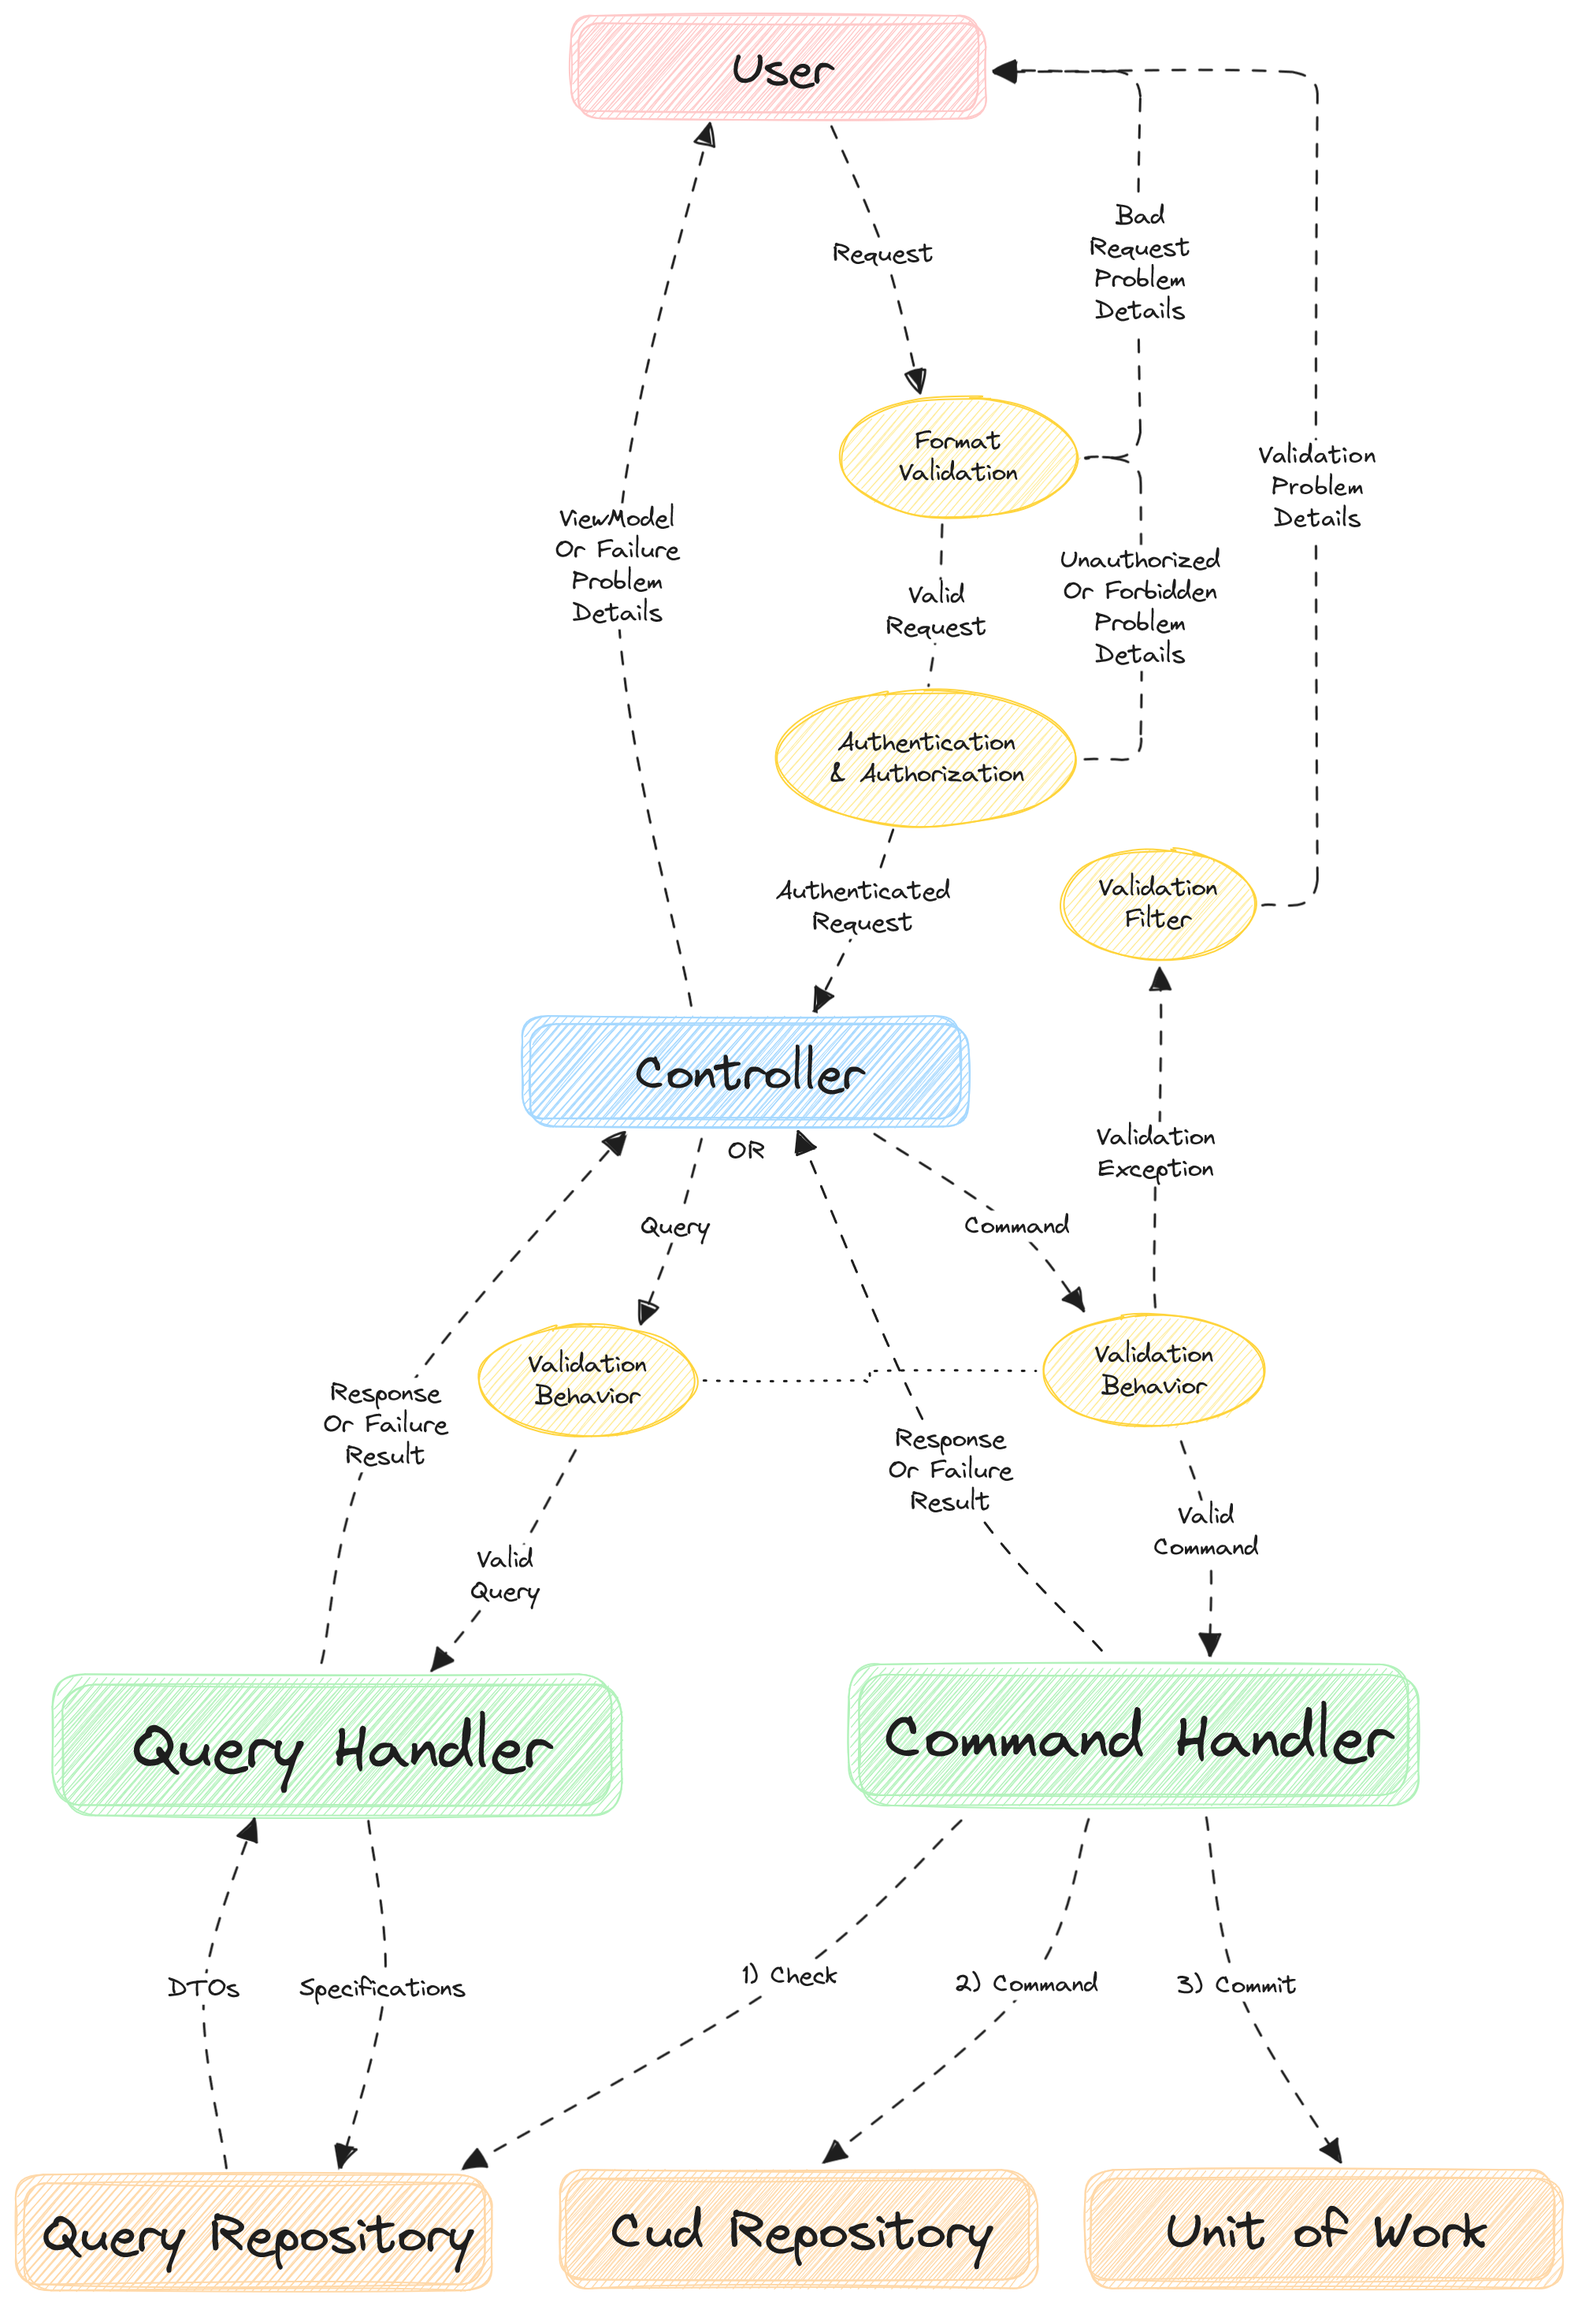
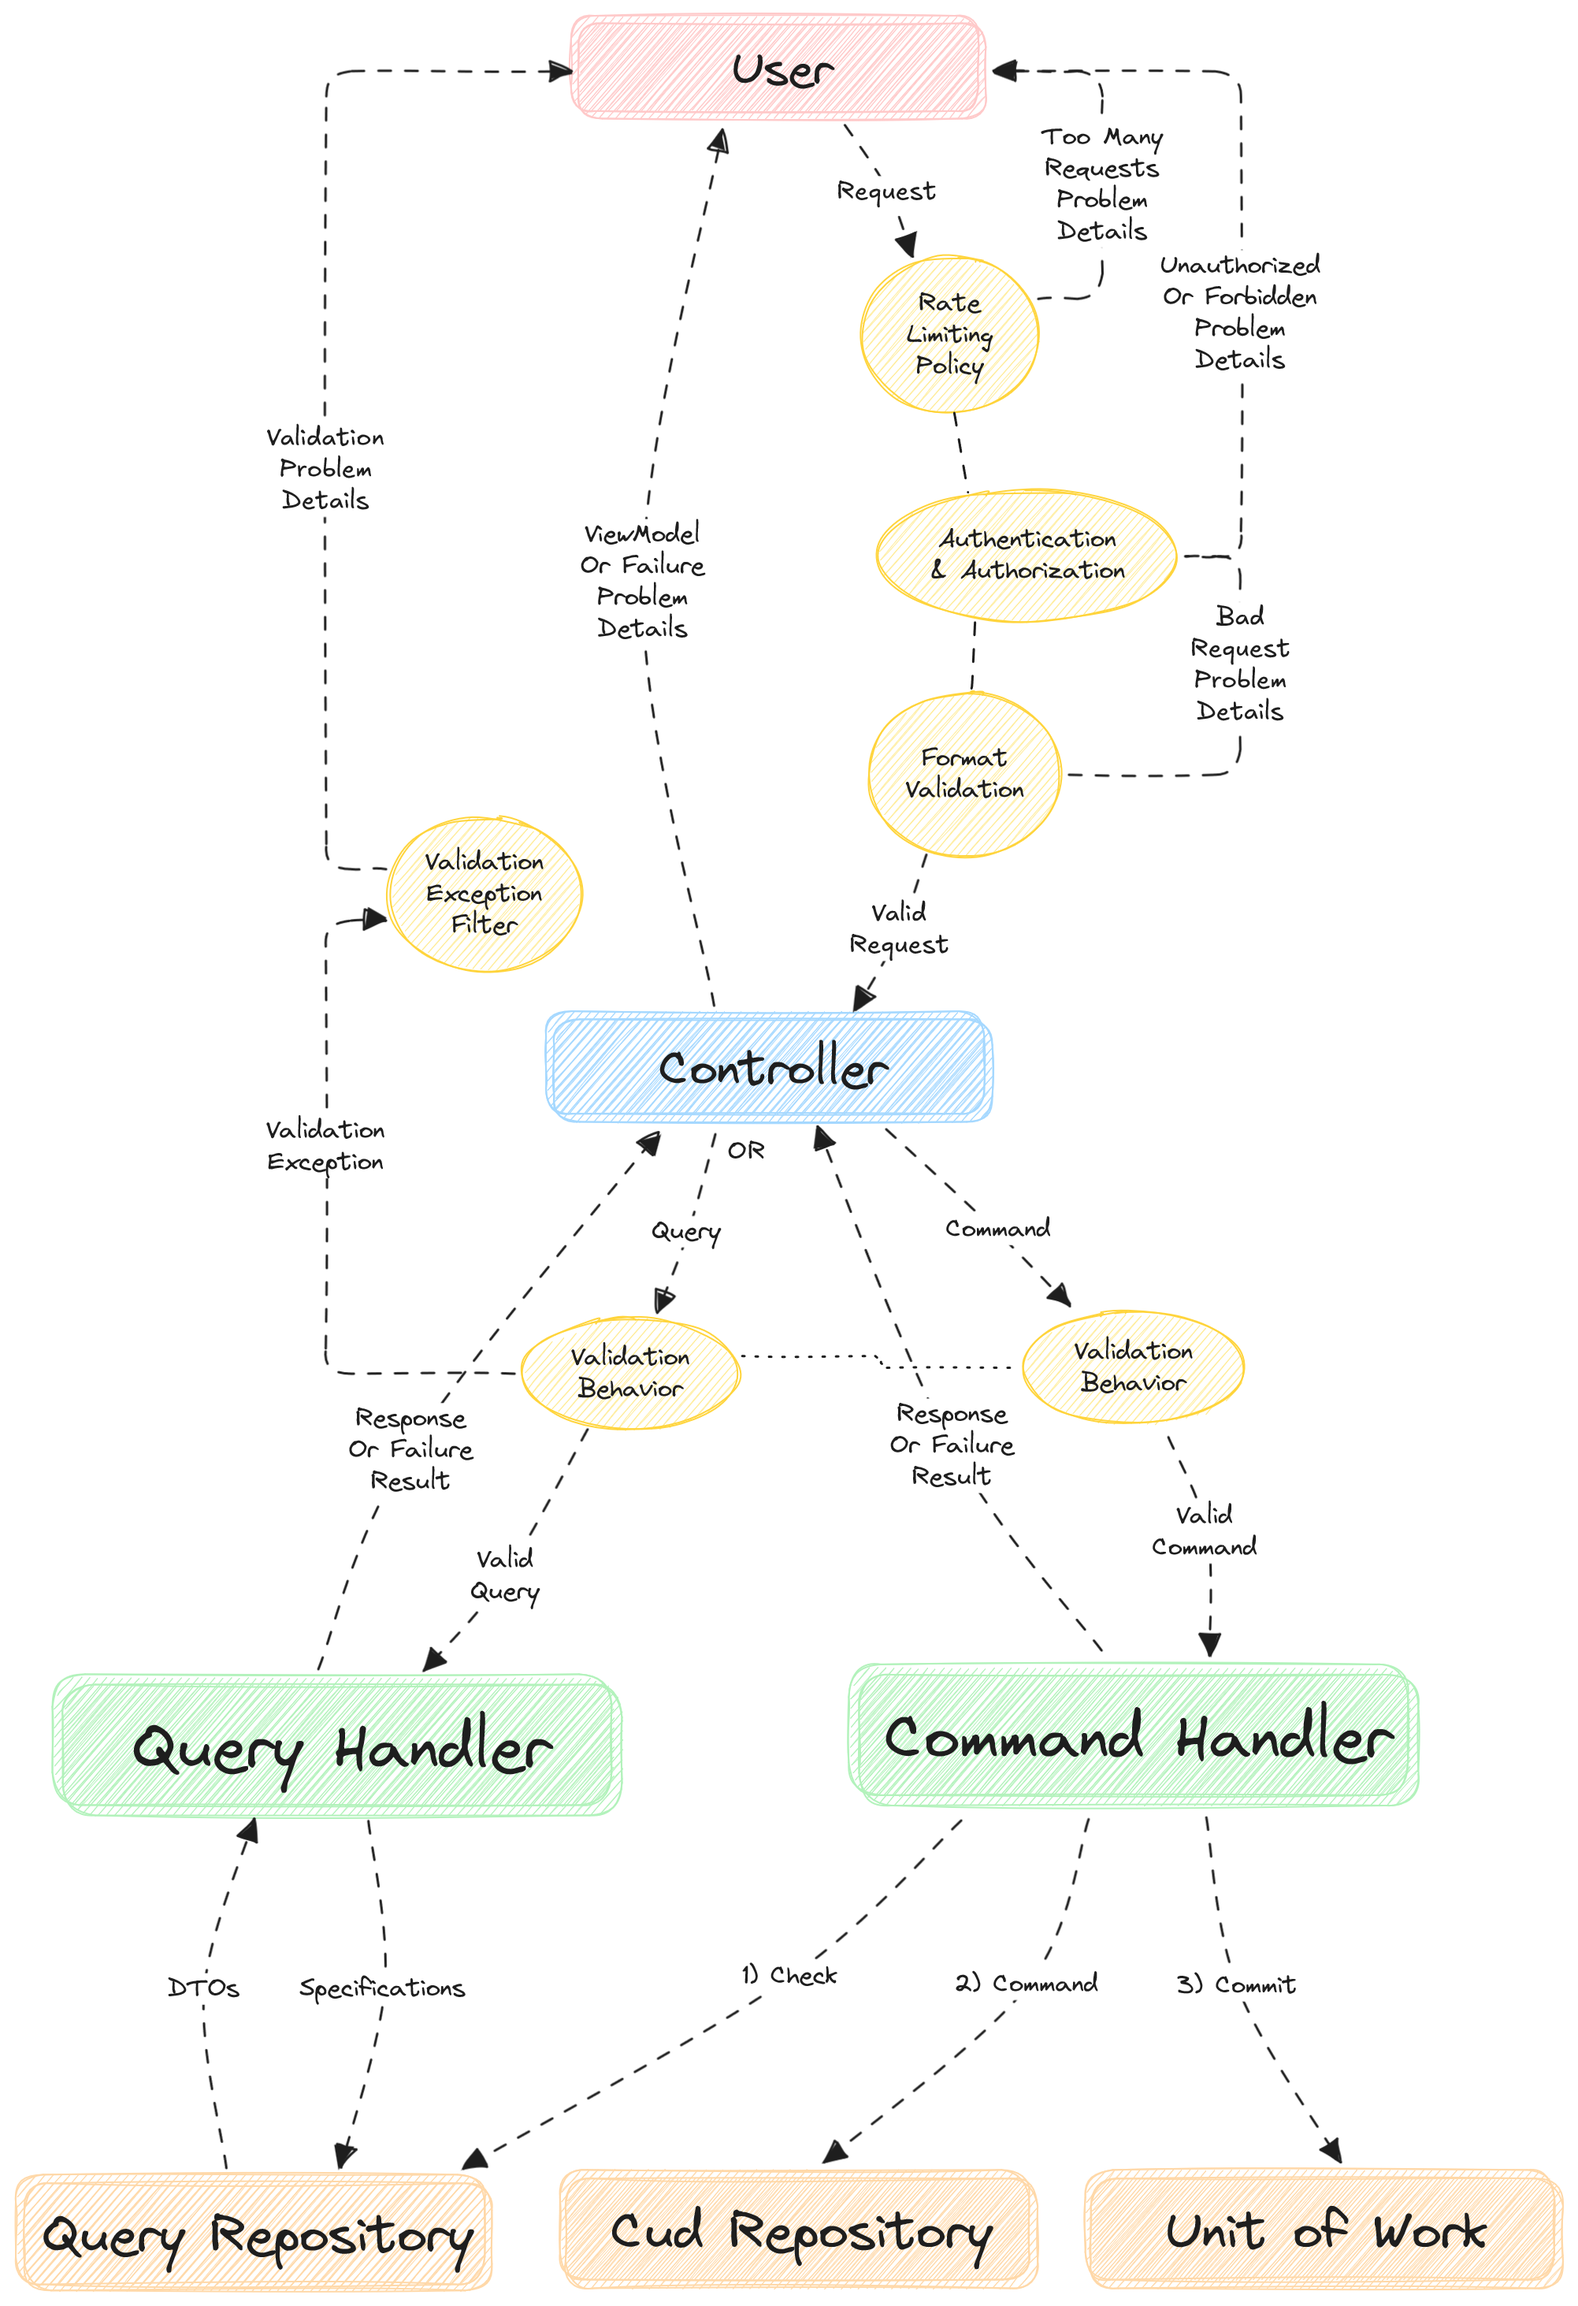
Update RequestFlow diagram

diff --git a/README.md b/README.md
@@ -97,7 +97,7 @@ Here is an overview of the architecture of the project:
 ### Request Flow
 
 - The following diagram illustrates the flow of a request through the system. It shows how a user's request is
-  validated, authenticated, and processed by the application, eventually retrieving data from the repositories.
+  filtered, validated, and processed by the application, eventually retrieving data from the repositories.
 - A request can be a **Query** or a **Command**.
 - Queries are typically handled by sending a specification to a query repository which returns the required DTO that is
   mapped and sent to the user.
@@ -106,7 +106,7 @@ Here is an overview of the architecture of the project:
 
 ![Request Flow](assets/diagrams/Excalidraw-RequestFlow.png)
 
-[Excalidraw Link](https://excalidraw.com/#json=gmwE4gshf6WWTboCFL07h,zF6-JX_EQmVv_mh08lC9eQ)
+[Excalidraw Link](https://excalidraw.com/#json=ElE9y_rwSaNfdk4hj5Wz1,mIa0FTtFGEZfTdiBDN-H4g)
 
 ## Getting Started
 
